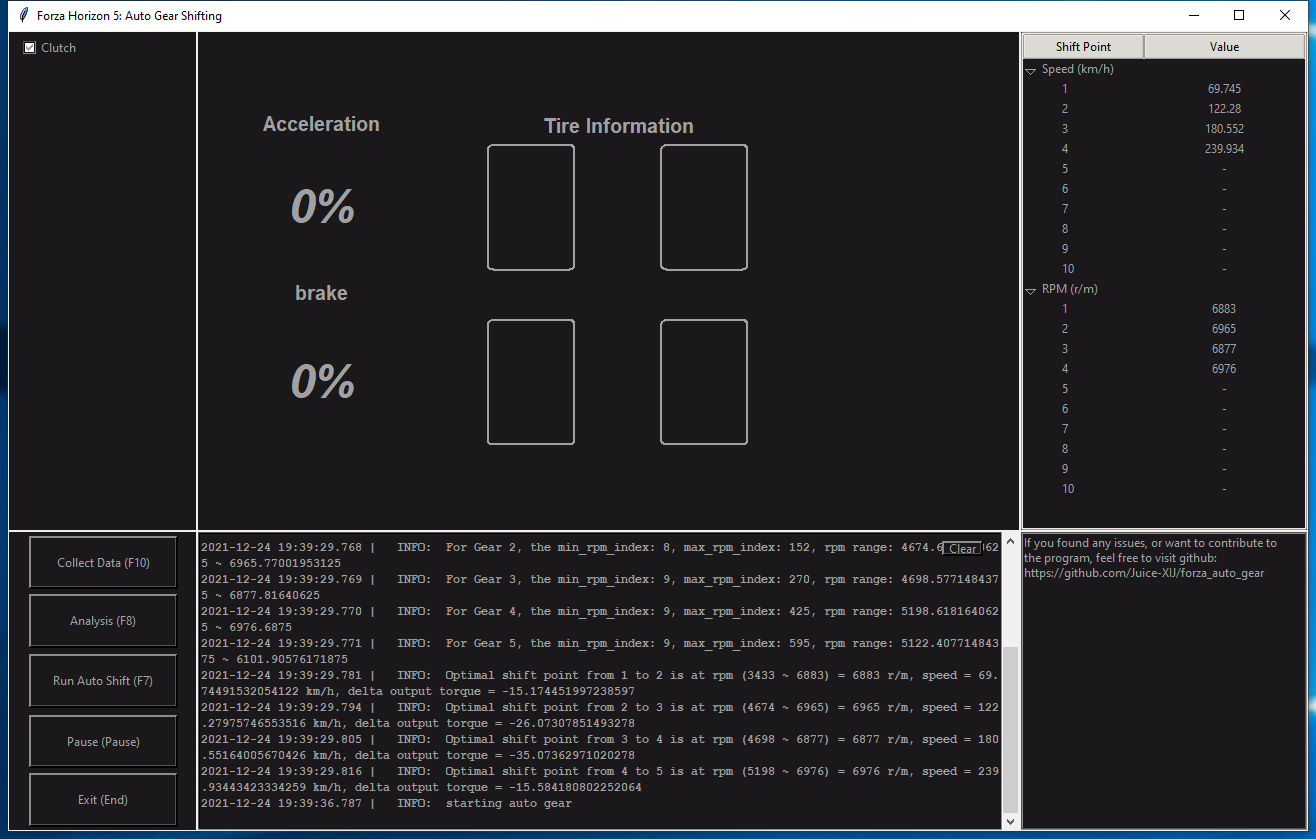
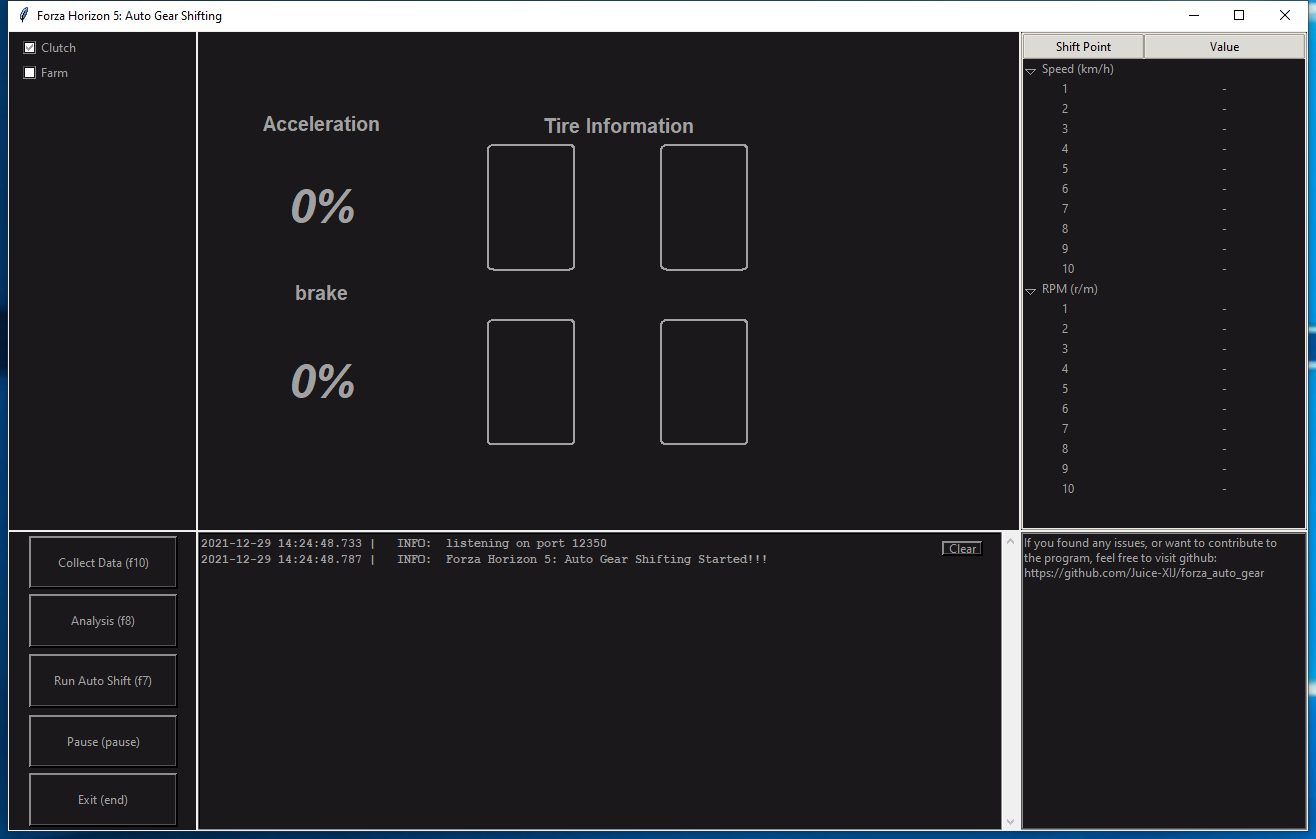
Xij/exp sp farm (#14)
* exp and sp farm

* udpate docs

diff --git a/forza.py b/forza.py
@@ -11,6 +11,7 @@ from fdp import ForzaDataPacket
 import constants
 import gear_helper
 import helper
+import keyboard_helper
 from car_info import CarInfo
 from logger import Logger
 
@@ -38,6 +39,7 @@ class Forza(CarInfo):
         self.isRunning = False
         self.threadPool = threadPool
         self.clutch = clutch
+        self.farming = False
 
         # constant
         self.config_folder = os.path.join(constants.root_path, 'config')
@@ -173,6 +175,8 @@ class Forza(CarInfo):
         try:
             self.logger.debug(f'{self.run.__name__} started')
             iteration = -1
+            reset_car = 0
+            reset_time = time.time()
             while self.isRunning:
                 fdp = helper.nextFdp(self.server_socket, self.packet_format)
                 if fdp is None:
@@ -195,10 +199,55 @@ class Forza(CarInfo):
                         continue
                     else:
                         return
+                if iteration == -1:
+                    if update_tree_func is not None:
+                        update_tree_func()
 
                 gear = fdp.gear
+
+                # enable reset car if exp or sp farming is True
+                if self.farming and fdp.car_ordinal > 0 and fdp.speed < 20 and time.time() - reset_time > 10:
+                    reset_car = reset_car + 1
+                    # reset car position
+                    if reset_car == 200:
+                        reset_car = 0
+                        def resetcar():
+                            self.logger.info("reset the car!!!")
+
+                            # press esc
+                            keyboard_helper.pressdown_str('esc')
+                            time.sleep(0.3)
+                            keyboard_helper.release_str('esc')
+
+                            # press x
+                            time.sleep(2)
+                            keyboard_helper.pressdown_str('x')
+                            time.sleep(0.3)
+                            keyboard_helper.release_str('x')
+
+                            # press enter
+                            keyboard_helper.pressdown_str('enter')
+                            time.sleep(0.3)
+                            keyboard_helper.release_str('enter')
+
+                        self.threadPool.submit(resetcar)
+                        reset_time = time.time()
+                    continue
+                else:
+                    reset_car = 0
+
                 if fdp.speed > 0.1 and gear >= self.minGear:
                     iteration = iteration + 1
+
+                    # exp or sp farming to avoid afk detection
+                    if self.farming:
+                        if iteration % 800 == 0:
+                            def press_s():
+                                self.logger.info("Brake!!!!!")
+                                keyboard_helper.pressdown_str('s')
+                                time.sleep(0.2)
+                                keyboard_helper.release_str('s')
+                            self.threadPool.submit(press_s)
                     slip = (fdp.tire_slip_ratio_RL + fdp.tire_slip_ratio_RR) / 2
                     speed = fdp.speed * 3.6
                     rpm = fdp.current_engine_rpm

diff --git a/gui.py b/gui.py
@@ -8,7 +8,6 @@ import matplotlib.colors as mcolors
 from pynput.keyboard import Listener
 
 import constants
-import keyboard_helper
 
 sys.path.append(r'./forza_motorsport')
 
@@ -60,7 +59,7 @@ class MainWindow:
         self.forza5 = Forza(self.threadPool, self.logger, constants.packet_format, clutch=constants.enable_clutch)
         self.listener = Listener(on_press=self.on_press)
 
-        self.set_car_info_frame()
+        self.set_car_setting_frame()
         self.set_car_perf_frame()
         self.set_shift_point_frame()
         self.set_button_frame()
@@ -154,15 +153,15 @@ class MainWindow:
         shutdown(self.forza5, self.threadPool, self.listener)
         self.root.destroy()
 
-    def set_car_info_frame(self):
-        """set car info frame
+    def set_car_setting_frame(self):
+        """set car setting frame
         """
-        # place car info frame
+        # place car setting frame
         self.car_info_frame = tkinter.Frame(self.root, border=0, bg=constants.background_color, relief="groove",
                                             highlightthickness=True, highlightcolor=constants.text_color)
 
-        enable_clutch = tkinter.IntVar(value=1)
-
+        # clutch setting
+        enable_clutch = tkinter.IntVar(value=self.forza5.clutch)
         def set_clutch():
             self.forza5.clutch = enable_clutch.get()
 
@@ -170,6 +169,16 @@ class MainWindow:
                                            variable=enable_clutch, bg=constants.background_color, command=set_clutch,
                                            fg=constants.text_color)
         clutch_check.place(relx=0.05, rely=0.03, anchor="w")
+
+        # farming setting
+        enable_farm = tkinter.IntVar(value=self.forza5.farming)
+        def set_farm():
+            self.forza5.farming = enable_farm.get()
+
+        farm_check = tkinter.Checkbutton(self.car_info_frame, text='Farm', onvalue=1, offvalue=0,
+                                           variable=enable_farm, bg=constants.background_color, command=set_farm,
+                                           fg=constants.text_color)
+        farm_check.place(relx=0.05, rely=0.08, anchor="w")
         self.car_info_frame.grid(row=0, column=0, sticky='news')
 
     def set_car_perf_frame(self):
@@ -277,7 +286,7 @@ class MainWindow:
         self.log_frame = tkinter.Frame(self.root, border=0, bg=constants.background_color, relief="groove",
                                        highlightthickness=True, highlightcolor=constants.text_color)
 
-        log = tkinter.scrolledtext.ScrolledText(self.log_frame, bg=constants.background_color, borderwidth=2,
+        log = scrolledtext.ScrolledText(self.log_frame, bg=constants.background_color, borderwidth=2,
                                                 font='Monaco 9 bold', fg=constants.text_color)
         log.pack(fill="both", expand=True)
         log_handler = TextHandler(log)

diff --git a/gear_helper.py b/gear_helper.py
@@ -251,7 +251,8 @@ def down_shift_handle(gear: int, forza: CarInfo):
             forza.logger.debug(f'[DownShift] clutch {constants.clutch} down on {gear}')
 
             # blip throttle
-            forza.threadPool.submit(blip_throttle)
+            if not forza.farming:
+                forza.threadPool.submit(blip_throttle)
 
         time.sleep(constants.delayClutchtoShift)
         # down shift and delay

diff --git a/README.zhcn.md b/README.zhcn.md
@@ -46,6 +46,7 @@ Then the result will be saved at `./config/{car ordinal}.json`
 
     - Command Line:
     ![f7 test](./img/f7_test.png)
+5. 如何你想在极其长的蓝图刷经验或者技能点， 可以开启刷图模式，即图形界面左侧，勾选`farm`选项即可。他会帮你定时刹车来避免AFK检测，以及当你的车卡在某个地方的时候，自动重置车的位置。
 
 ## 杂谈
 1. F7的默认是手离结合。如果不想使用手离，而只想用手动，则可以修改 `constants.py`的参数配置。如果使用图形界面，则可以在左上角直接进行修改。

diff --git a/README.md b/README.md
@@ -46,6 +46,7 @@ Then the result will be saved at `./config/{car ordinal}.json`
 
     - Command Line:
     ![f7 test](./img/f7_test.png)
+5. If you are running exp and skill point farming in long blueprint, you could enable the farming mode in GUI left panel by checking `farm`. It will help you press brake to avoid AFK detection and reset car position if you got stuck.
 
 ## Moreover
 1. By default the shifting mode is Manual with Clutch. You could change it in `constants.py`. If you are using the GUI, you could switch Clutch at the top right corner.
